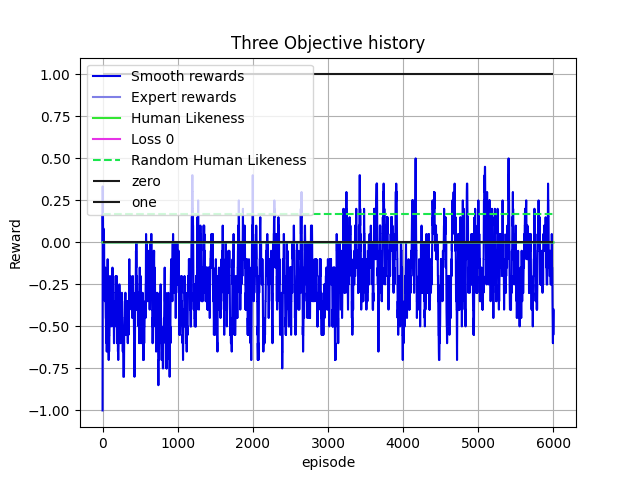
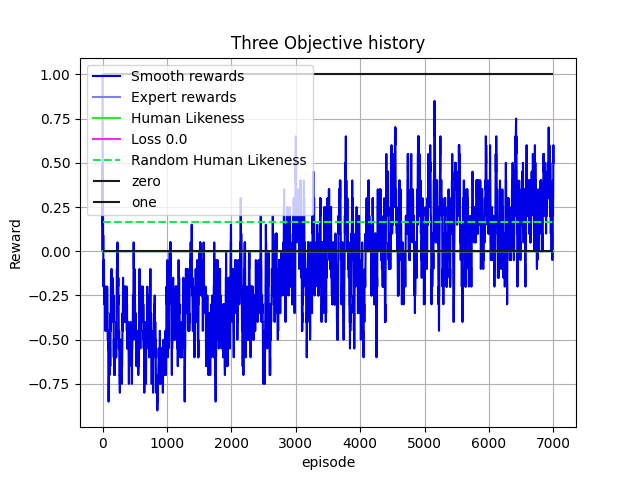
ind runs done

diff --git a/run_exp.py b/run_exp.py
@@ -103,7 +103,7 @@ def handle_actions(
         # print(obs)
         # print(action)
         # print(f"RL schochastic action: {action}")
-    print(action, lp)
+    # print(action, lp)
     return int(action), lp
 
 
@@ -332,7 +332,16 @@ def run_multi_agent_episodes(
     learn_during_rand=False,
     display=False,
     graph_progress=False,
-    reward_checkpoint_bin=[40, 60, 70, 80, 100],
+    reward_checkpoint_bin=[
+        0.0,
+        0.2,
+        0.4,
+        0.6,
+        0.7,
+        0.8,
+        0.9,
+        0.95,
+    ],  # [10, 40, 60, 70, 80, 100],
     model_path="",
     MATCH=None,
     n_shot=1,
@@ -348,8 +357,8 @@ def run_multi_agent_episodes(
     smooth_reward_hist = []
     ep_expert_reward_hist = []
     smooth_expert_reward_hist = []
-    recent_rewards = deque(maxlen=20)
-    recent_expert_rewards = deque(maxlen=20)
+    recent_rewards = deque(maxlen=50)
+    recent_expert_rewards = deque(maxlen=50)
     human_likeness = []
     loss_hist = []
 
@@ -360,9 +369,9 @@ def run_multi_agent_episodes(
         )
 
     while overall_step < max_steps and not quit_early:
-        print(
-            f"overall: {overall_step} ep# {current_episode}"
-        )  # ep step: {current_episode_step}")
+        # print(
+        #    f"overall: {overall_step} ep# {current_episode}"
+        # )  # ep step: {current_episode_step}")
         idx_before = memory.idx
         steps_recorded_before = memory.steps_recorded
         ep_inds = None if memory.episode_inds is None else memory.episode_inds.copy()
@@ -375,7 +384,7 @@ def run_multi_agent_episodes(
         current_episode_step = 0
 
         if current_episode % n_shot == 0:
-            print("Resetting match samplers")
+            # print("Resetting match samplers")
             MATCH_Wrappers = [
                 Agent_With_Oracle(
                     agent=models[0], n_agents=n_agents, oracle_num=0, sampler="Thompson"
@@ -454,7 +463,7 @@ def run_multi_agent_episodes(
 
             if episode_type == Episode_Type.RL:
                 # if episodic:
-                if online and memory.steps_recorded > 255:
+                if online and memory.steps_recorded > 511:
                     exp = memory.sample_transitions(
                         as_torch=True,
                         device=device,
@@ -467,7 +476,7 @@ def run_multi_agent_episodes(
                     memory.reset()
                     loss_hist[-1] += closs
 
-                elif memory.steps_recorded > 255:
+                elif not online and memory.steps_recorded > 255:
                     exp = memory.sample_transitions(256, as_torch=True, device=device)
                     for agent_id in range(n_agents):
                         aloss, closs = models[agent_id].reinforcement_learn(
@@ -519,18 +528,20 @@ def run_multi_agent_episodes(
         smooth_expert_reward_hist.append(
             sum(recent_expert_rewards) / len(recent_expert_rewards)
         )
-        print(
-            f"Episode: {current_episode:<4}  "
-            f"Episode steps: {current_episode_step:<4}  "
-            f"Return: {ep_reward_hist[current_episode]:<5.1f} smooth: {smooth_reward_hist[-1]}"
-        )
+        if current_episode % 50 == 0:
+            print(
+                f"Episode: {current_episode:<4}  "
+                f"Episode steps: {current_episode_step:<4}  "
+                f"Return: {ep_reward_hist[current_episode]:<5.1f} smooth: {smooth_reward_hist[-1]}"
+            )
 
         if episode_type == Episode_Type.RL and len(reward_checkpoint_bin) > 0:
             mbin = min(reward_checkpoint_bin)
+            # print(smooth_reward_hist[-1])
+            # print(mbin)
             if smooth_reward_hist[-1] > mbin:
-                models[agent_id].save(
-                    model_path + f"r_{mbin}_supreg{supervised_reg}_{agent_id}/"
-                )
+                print("Checkpointing model")
+                models[0].save(model_path + f"r_{mbin}_supreg{supervised_reg}/")
                 reward_checkpoint_bin.pop(reward_checkpoint_bin.index(mbin))
 
         if episode_type == Episode_Type.RL and overall_step >= max_steps:
@@ -680,20 +691,20 @@ def get_agent(obs, args, device, n_actions):
             max_actions=0,  # continuous_env.action_space.high,
             gamma=0.99,
             device="cuda",
-            entropy_loss=0.001,
-            mini_batch_size=32,
+            entropy_loss=0.01,
+            mini_batch_size=64,
             n_epochs=4,
-            lr=1e-4,
+            lr=3e-4,
             advantage_type="gae",
-            norm_advantages=True,
-            anneal_lr=2000000,
+            norm_advantages=False,
+            anneal_lr=1000000,
             value_loss_coef=0.5,  # 5,
             ppo_clip=0.2,
             value_clip=0.5,
             orthogonal=True,
             activation="tanh",
             starting_actorlogstd=0,
-            gae_lambda=0.98,
+            gae_lambda=0.95,
         ),
         "DQ": DQN(
             obs_dim=obs.shape[1],
@@ -703,10 +714,11 @@ def get_agent(obs, args, device, n_actions):
             discrete_action_dims=[n_actions],
             hidden_dims=[64, 64],
             device="cuda:0",
-            lr=3e-5,
+            lr=3e-4,
             activation="relu",
             dueling=True,
             n_c_action_bins=0,
+            eps_decay_half_life=3000,
         ),
     }
 
@@ -917,7 +929,8 @@ if __name__ == "__main__":
             activation="relu",
             dueling=True,
             n_c_action_bins=0,
-            entropy=0.01,
+            entropy=0.03,
+            munchausen=0.9,
         )
 
     elif args.algorithm == "PPO":
@@ -931,17 +944,17 @@ if __name__ == "__main__":
             gamma=0.99,
             device="cuda",
             entropy_loss=0.01,
-            mini_batch_size=32,
+            mini_batch_size=64,
             n_epochs=4,
             lr=3e-4,
             advantage_type="gae",
-            norm_advantages=True,
+            norm_advantages=False,
             anneal_lr=200000,
             value_loss_coef=0.5,
             ppo_clip=0.2,
             # value_clip=0.5,
             orthogonal=True,
-            activation="relu",
+            activation="tanh",
             starting_actorlogstd=0,
             gae_lambda=0.95,
         )

diff --git a/graph_results.py b/graph_results.py
@@ -1,0 +1,139 @@
+import matplotlib.pyplot as plt
+import numpy as np
+import os
+
+
+def summarize_plot_data(rewards, expert_rewards, human_likeness):
+    # Make the arrays not jagget
+    nep = 100000000
+    for r in rewards:
+        if len(r) < nep:
+            nep = len(r)
+    for i in range(len(rewards)):
+        rewards[i] = rewards[i][:nep]
+        expert_rewards[i] = expert_rewards[i][:nep]
+        human_likeness[i] = human_likeness[i][:nep]
+    rewards = np.array(rewards)
+    expert_rewards = np.array(expert_rewards)
+    human_likeness = np.array(human_likeness)
+
+    # get means and standard deviations
+    print(human_likeness)
+    smr = np.mean(rewards, axis=0)
+    smer = np.mean(expert_rewards, axis=0)
+    hlike = np.mean(human_likeness[0], axis=-1)
+    smr_sd = np.std(rewards, axis=0)
+    smer_sd = np.std(expert_rewards, axis=0)
+    hlike_sd = np.std(human_likeness[0], axis=-1)
+
+    return smr, smer, hlike, smr_sd, smer_sd, hlike_sd
+
+
+def plot_performance(
+    rewards, expert_rewards, human_likeness, dirpath, filename, supreg, hf, algo
+):
+    smr, smer, hlike, smr_sd, smer_sd, hlike_sd = summarize_plot_data(
+        rewards, expert_rewards, human_likeness
+    )
+    x = np.arange(smr.shape[0])
+    fig, axes = plt.subplots(nrows=2)
+
+    hlike = hlike.flatten()
+    hlike_sd = hlike_sd.flatten()
+    axes[0].plot(smr, color="blue")
+    axes[0].plot(smer, color="red")
+    axes[0].legend(
+        [
+            "MDP rewards",
+            "Expert rewards",
+        ]
+    )
+    axes[0].fill_between(
+        x, y1=smer - smer_sd, y2=smer + smer_sd, color=[0.9, 0.2, 0.1, 0.3]
+    )
+    axes[0].fill_between(
+        x, y1=smr - smr_sd, y2=smr + smr_sd, color=[0.1, 0.2, 0.9, 0.3]
+    )
+
+    axes[1].plot(hlike, color=[0.1, 0.9, 0.3])
+    axes[1].hlines(
+        0.267,
+        colors=[[0.1, 0.9, 0.3]],
+        xmin=0,
+        xmax=smr.shape[0] - 1,
+        linestyles=["dashed"],
+    )
+    axes[1].legend(
+        [
+            "Human Likeness",
+            "Random Human Likeness",
+        ]
+    )
+    axes[1].fill_between(
+        x, y1=hlike - hlike_sd, y2=hlike + hlike_sd, color=[0.1, 0.9, 0.3, 0.3]
+    )
+    axes[1].hlines(0, colors=[[0.1, 0.1, 0.1]], xmin=0, xmax=smr.shape[0] - 1)
+    axes[1].hlines(1.0, colors=[[0.1, 0.1, 0.1]], xmin=0, xmax=smr.shape[0] - 1)
+
+    axes[0].set_title(
+        f"Reward and Human Likeness {algo}: [hf {hum_feedback}], [demo {demo}], [hr {supreg}]"
+    )
+    axes[0].set_ylabel("Moving Average Reward")
+    axes[1].set_ylabel("Probability")
+    axes[1].set_xlabel("Episode")
+    axes[1].set_ylim(0, 1)
+    axes[0].set_ylim(0, 120)
+    axes[0].grid()
+    axes[1].grid()
+    # fig = plt.gcf()
+    # fig.show()
+    if not os.path.exists(dirpath + "figures/"):
+        os.makedirs(dirpath + "figures/")
+    fig.savefig(dirpath + "figures/" + filename)
+
+
+def make_bat():
+    for env in ["Cartpole", "SC2"]:
+        for algo in ["PPO", "PPO"]:
+            for demo in [True, False]:
+                for supreg in [True, False]:
+                    for hum_feedback in [True, False]:
+                        for runid in range(5):
+                            continue
+
+
+if __name__ == "__main__":
+    for env in ["TTT", "Overcooked"]:
+        for algo in ["DQ", "PPO"]:
+            dirpath = f"./PaperExperiment/{env}/" + f"algo_{algo}/"
+            for demo in [True, False]:
+                for supreg in [True, False]:
+                    for hum_feedback in [True, False]:
+                        hl = []
+                        r = []
+                        er = []
+                        for runid in range(5):
+                            filename = f"demo_{demo}_human_reg{supreg}_hf_{hum_feedback}_run{runid}_"
+                            print(dirpath + filename)
+                            if os.path.exists(
+                                dirpath + filename + "human_likeness.npy"
+                            ):
+                                hl.append(
+                                    np.load(dirpath + filename + "human_likeness.npy")
+                                )
+                                r.append(np.load(dirpath + filename + "rew.npy"))
+                                er.append(np.load(dirpath + filename + "exprew.npy"))
+                            else:
+                                break
+                        if len(hl) == 0:
+                            continue
+                        plot_performance(
+                            r,
+                            er,
+                            hl,
+                            dirpath,
+                            filename[:-2],
+                            supreg,
+                            hum_feedback,
+                            algo,
+                        )

diff --git a/wrapped_environments.py b/wrapped_environments.py
@@ -109,7 +109,14 @@ class OvercookWrapped(Wrapper):
 
         next_obs, reward, terminated, info = self.env.step(b)
         self.obs = next_obs
-        return self.state_vecorizer(next_obs), reward, terminated, False, info
+        # print(sum(info["shaped_r_by_agent"]))
+        return (
+            self.state_vecorizer(next_obs),
+            reward + sum(info["shaped_r_by_agent"]),
+            terminated,
+            False,
+            info,
+        )
 
     def expert_reward(self, obs):
         return abs(obs[0][3] / 10)
